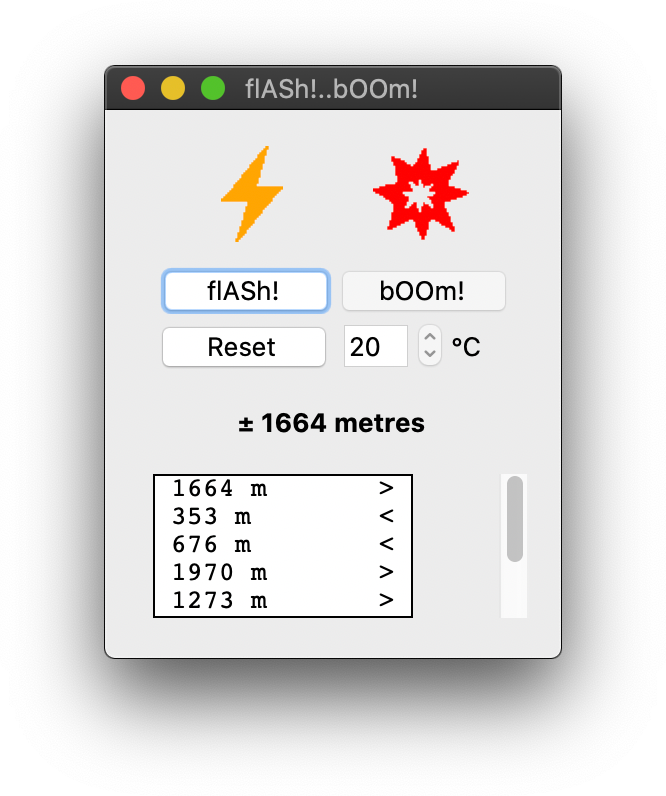
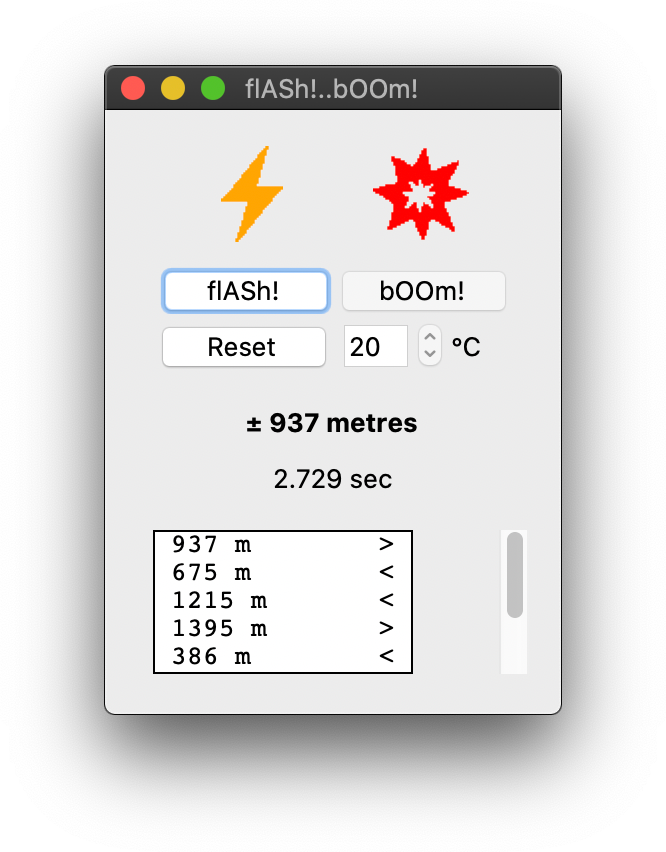
Time feedback added.

diff --git a/flashboom.py b/flashboom.py
@@ -1,4 +1,4 @@
-"""flASh!..bOOm! v0.0.1 - Python 3.7 - by tumtidum.
+"""flASh!..bOOm! v0.0.2 - Python 3.7 - by tumtidum.
 
 Estimate the distance of lightning by measuring the time between
 the 'flash' and the 'boom' during a thunderstorm (or any other
@@ -11,7 +11,6 @@ order to fine-tune the speed of sound to the conditions.
 
 from tkinter import (ttk, Tk, Frame, N, W, E, S, StringVar, BitmapImage,
                      Listbox)
-from tkinter.font import Font
 from time import perf_counter
 from math import sqrt
 
@@ -26,18 +25,21 @@ class App(Frame):
         # Will be used for timing.
         time_start = 0
 
-        # Used for feedback label.
-        default_text = ". . ."
-        V = StringVar()
-        V.set(default_text)
+        # Used for display/feedback labels.
+        default_d_text = ". . ."
+        display_d_var = StringVar()
+        display_d_var.set(default_d_text)
+        default_t_text = ". ."
+        display_t_var = StringVar()
+        display_t_var.set(default_t_text)
 
         # Used for history box.
         history_list = []
         hist_compare_list = []
         history_var = StringVar()
-        history_var.set(value=history_list)
+        history_var.set(history_list)
 
-        # Definitions used by the buttons.
+        # Function definitions.
         def flasher():
             """Actions for the flash button."""
             nonlocal time_start
@@ -45,24 +47,25 @@ class App(Frame):
             boom_button['state'] = 'normal'
             reset_button['state'] = 'normal'
             boom_button.focus_set()
-            return time_start and V.set("Waiting for bOOm..")
+            display_t_var.set(default_t_text)
+            return time_start and display_d_var.set("Waiting for bOOm..")
 
         def boomer():
             """Actions for the boom button."""
             time_end = perf_counter()
-            execution_time = float("%.2f" % (time_end - time_start))
+            execution_time = (time_end - time_start)
+            display_t_var.set(str(float("%.3f" % execution_time)) + " sec")
             # Calculate speed of sound based on given air temperature.
             temp_celcius = int(temp_input.get())
-            speed_sound_air = float("%.2f" % (331.3 * sqrt(1 +
-                                              (temp_celcius / 273.15))))
+            speed_sound_air = (331.3 * sqrt(1 + (temp_celcius / 273.15)))
             # Distance calculation.
-            distance = int(execution_time * speed_sound_air)
+            distance = round(execution_time * speed_sound_air)
             boom_button['state'] = 'disabled'
             flash_button.focus_set()
             # Add distance to history box.
             historyBoxer(distance)
             history_var.set(history_list)
-            return V.set("± " + str(distance) + " metres")
+            return display_d_var.set("± " + str(distance) + " metres")
 
         def resetter():
             """Actions for the reset button."""
@@ -72,7 +75,8 @@ class App(Frame):
             del history_list[:]
             del hist_compare_list[:]
             history_var.set(history_list)
-            return V.set(default_text)
+            display_t_var.set(default_t_text)
+            return display_d_var.set(default_d_text)
 
         def spacer(s, totalspace=14):
             """Fake TABs.
@@ -89,7 +93,7 @@ class App(Frame):
             if history_list != []:
                 a = hist_compare_list[0]
                 hist_compare_list.insert(0, x)
-                # Keep compare list small, only latest two values needed.
+                # Keep compare list small, only most recent two values needed.
                 if len(hist_compare_list) > 2:
                     hist_compare_list.pop(2)
                 else:
@@ -249,17 +253,29 @@ class App(Frame):
             sticky=E
             )
 
-        # Feedback/display label.
-        feedback = ttk.Label(
+        # Display distance label.
+        display_d = ttk.Label(
             frame_one,
             text="Feedback..",
-            textvariable=V,
-            font=Font(weight='bold'),
-            padding='0 12 0 8'
+            textvariable=display_d_var,
+            font="-weight bold",
+            padding='0 12 0 4'
             )
-        feedback.grid(
+        display_d.grid(
             column=0,
             row=2,
+            sticky=S
+            )
+        # Display time label.
+        display_t = ttk.Label(
+            frame_one,
+            text="Feedback..",
+            textvariable=display_t_var,
+            padding='0 4 0 8'
+            )
+        display_t.grid(
+            column=0,
+            row=3,
             sticky=S
             )
 
@@ -267,7 +283,7 @@ class App(Frame):
         history_scroll = ttk.Scrollbar(frame_one)
         history_scroll.grid(
             column=0,
-            row=3,
+            row=4,
             padx=0,
             pady=8,
             sticky=(N, S, E)
@@ -286,7 +302,7 @@ class App(Frame):
             )
         history_box.grid(
             column=0,
-            row=3,
+            row=4,
             padx=8,
             pady=8,
             sticky=(N, S, W)
@@ -301,5 +317,10 @@ if __name__ == '__main__':
     # Load and assign images, odd it has to be here, but else won't work.
     img_flash = BitmapImage(file="img/flash.xbm", foreground='orange')
     img_boom = BitmapImage(file="img/boom.xbm", foreground='red')
+    # Place window somewhere near the centre on the desktop.
+    screen_width = str(int(root.winfo_screenwidth() / 2 - 100))
+    screen_height = str(int(root.winfo_screenheight() / 2 - 200))
+    desktop = '-' + screen_width + '+' + screen_height
+    root.geometry(desktop)
     app = App(root)
     root.mainloop()

diff --git a/README.md b/README.md
@@ -52,6 +52,9 @@ though.)
 
 ## Release History
 
+* 0.0.2
+    * Time feedback added.
+    * Some minor adjustments.
 * 0.0.1
     * Work in progress.
 
